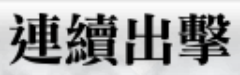
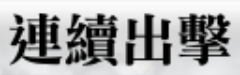
FGOTW v3.78

diff --git a/game_script/check_stage.js b/game_script/check_stage.js
@@ -9,13 +9,11 @@ function setMarginIcon() {
     icon["boxNoPoint"] = [360, 630, 195, 82];
     icon["settingDialog"] = [840, 220, 240, 60];
     icon["stageFailed"] = [900, 154, 140, 60];
-    icon["stageRestart"] = [1140, 810, 240, 75];
     icon["friendPointFree"] = [787, 740, 337, 75];
   } else {
     icon["boxNoPoint"] = [470, 530, 200, 100];
     icon["settingDialog"] = [750, 140, 350, 70];
     icon["stageFailed"] = [750, 160, 300, 60];
-    icon["stageRestart"] = [1140, 836, 240, 75];
     icon["friendPointFree"] = [810, 740, 300, 75];
   }
 
@@ -500,7 +498,7 @@ function isBattleSkillTargetDialog() {
 
 //finish-----------------------------------------------
 icon["finishNext"] = [1575, 933, 180, 60];
-icon["stageRestart"] = [1140, 810, 240, 75];
+icon["stageRestart"] = [1140, 836, 240, 75];
 icon["stageRestartEvent"] = [1260, 810, 240, 75];
 icon["stageFailed"] = [750, 160, 300, 60];
 icon["stageFailed2"] = [860, 570, 200, 60];

diff --git a/game_script/start_stage.js b/game_script/start_stage.js
@@ -171,14 +171,6 @@ function selectTeam(team, useTeamAutoBuild) {
   }
   var teamMaxCnt = 15;
   var teamOffset = 2;
-  if (server == "TW") {
-    teamMaxCnt = 10;
-    teamOffset = 0;
-  }
-  if (team < 0 || team >= teamMaxCnt) {
-    console.log("隊伍編號超出上限，請確認遊戲與小幫手版本");
-    return;
-  }
   if (isReplay) {
     console.log("連續戰鬥，選擇隊伍省略");
     return;

diff --git a/index.js b/index.js
@@ -6,7 +6,7 @@ var server;
 var loadApiCnt;
 
 
-var version = "V3.77";
+var version = "V3.78";
 
 function start(loopTime, script, scriptName, be, pref) {
   startScript(loopTime, script, scriptName, be, pref);

diff --git a/index.html b/index.html
@@ -33,8 +33,8 @@
   <!-- End Google Analytics -->
 
   <script>
-    var server = "JP";
-    // var server = "TW";
+    // var server = "JP";
+    var server = "TW";
     var isDebug = false;
   </script>
 
